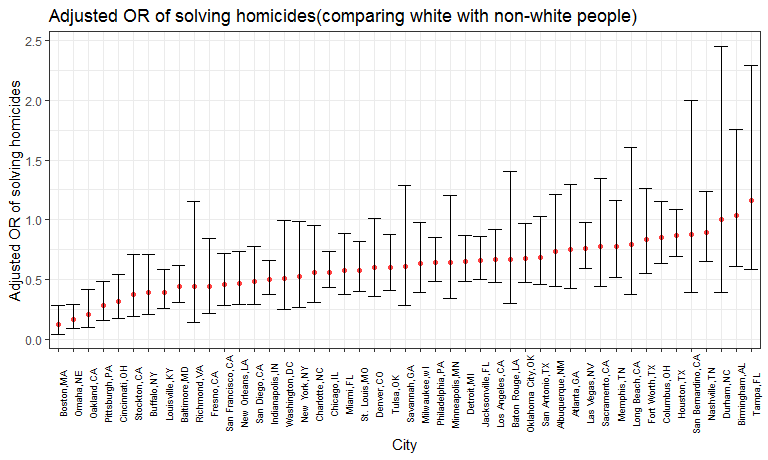
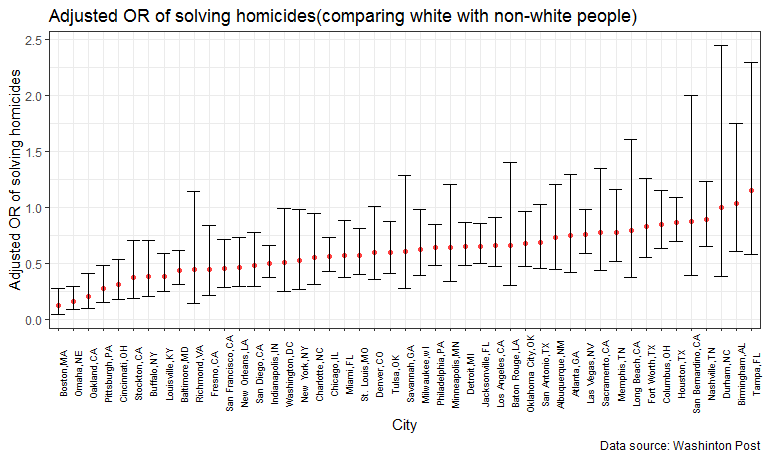
adding descriptions to plots.

diff --git a/p8105_hw6_hh2767.md b/p8105_hw6_hh2767.md
@@ -237,11 +237,16 @@ homicide_race_or %>%
   ggplot(.) +
   geom_point(aes(x = city_state, y =  `adjusted OR for solving homicides`), color = "brown1") +
   geom_errorbar( aes(x = city_state, ymin = `95% conf.low`, ymax = `95% conf.high`)) +
-  labs(title = "Adjusted OR of solving homicides(comparing white with non-white people)", x = "City", y = "Adjusted OR of solving homicides") +
+  labs(title = "Adjusted OR of solving homicides(comparing white with non-white people)", 
+       x = "City", 
+       y = "Adjusted OR of solving homicides", 
+       caption = "Data source: Washinton Post") +
   theme(axis.text.x = element_text(face = "plain", color = "black", size = 6.5, angle = 90), legend.position = "null")
 ```
 
 <img src="p8105_hw6_hh2767_files/figure-markdown_github/unnamed-chunk-5-1.png" width="90%" />
+
+This plot shows estimated odds ratios of solving homicides if victims non-white, and their corresponding CIs for each city in the dataset. The cities are organized according to their estimated ORs. As the plot shows, Boston, Omaha, and Oakland have lowest adjusted ORs, which are less than 0.25. Tampa, Birmingham, and Durham have the highest adjusted ORs, which are greater than 1.
 
 Problem2
 ========
